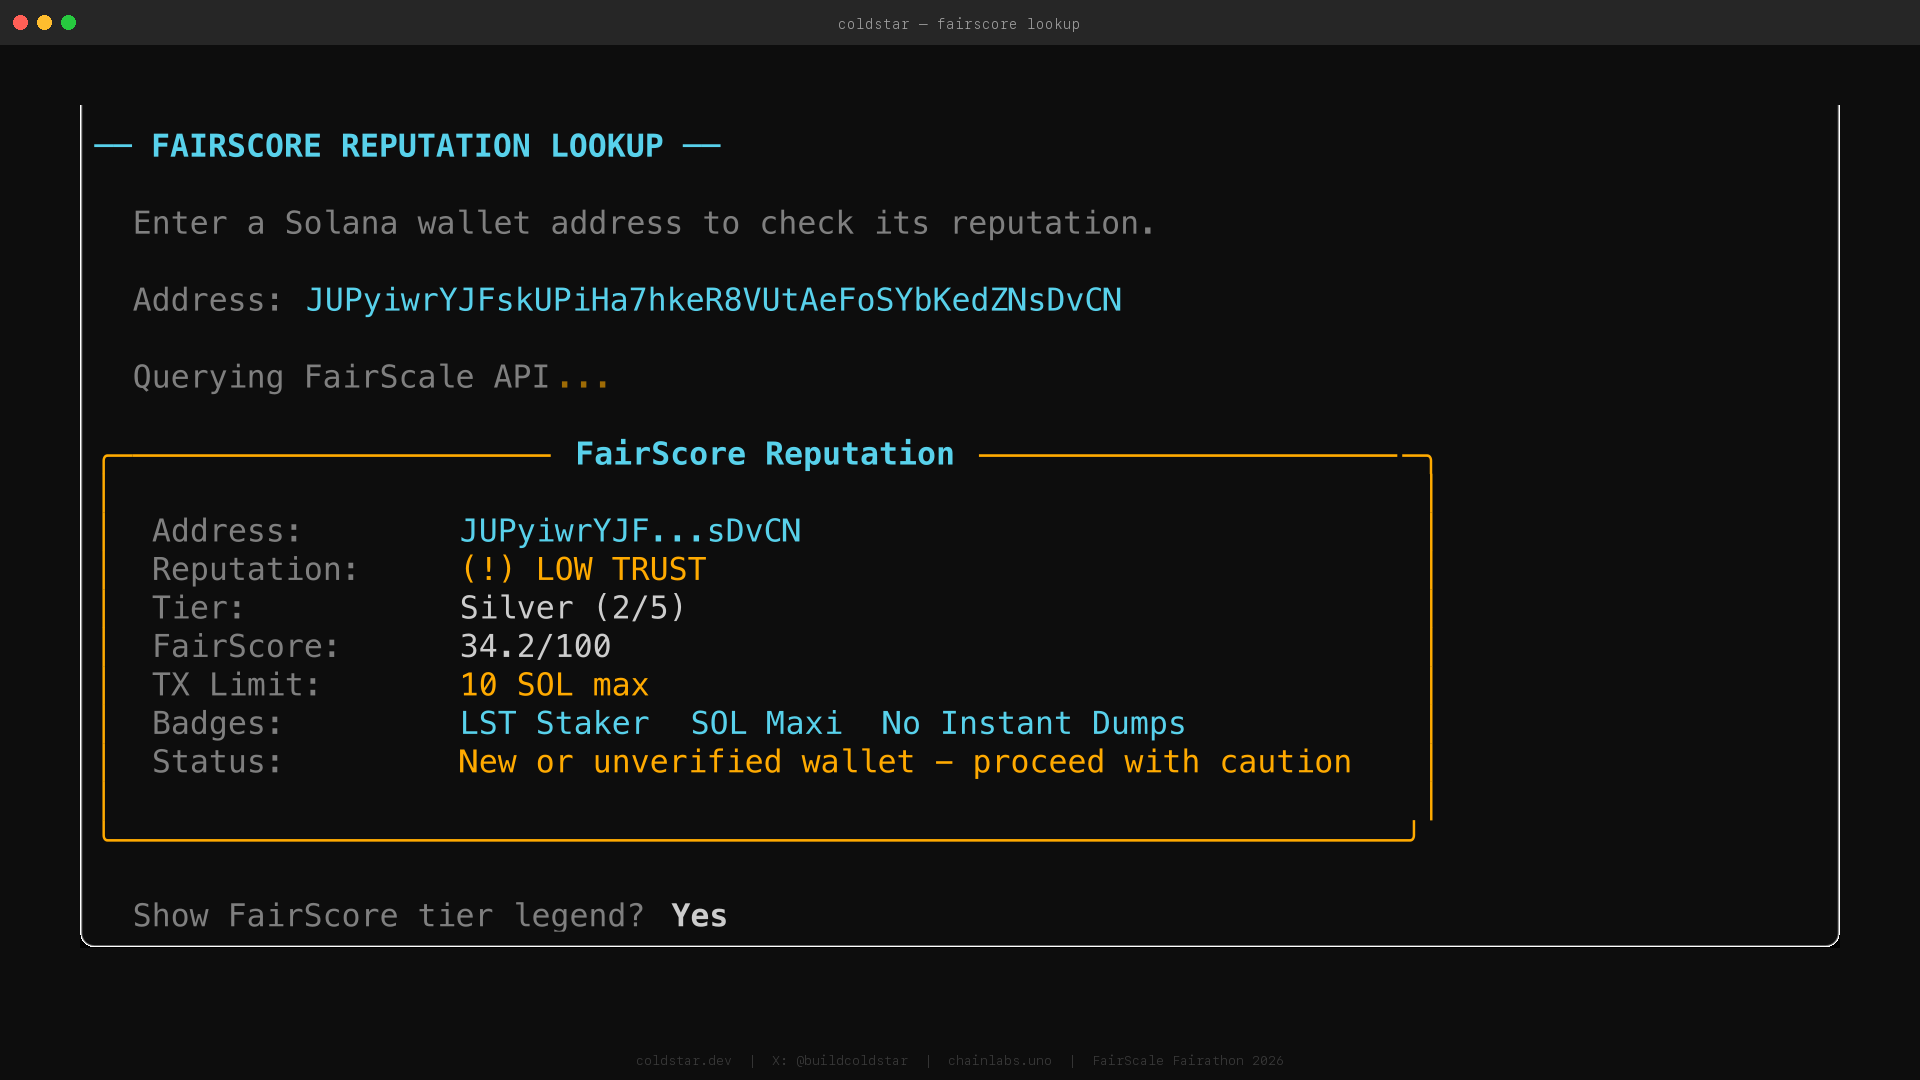
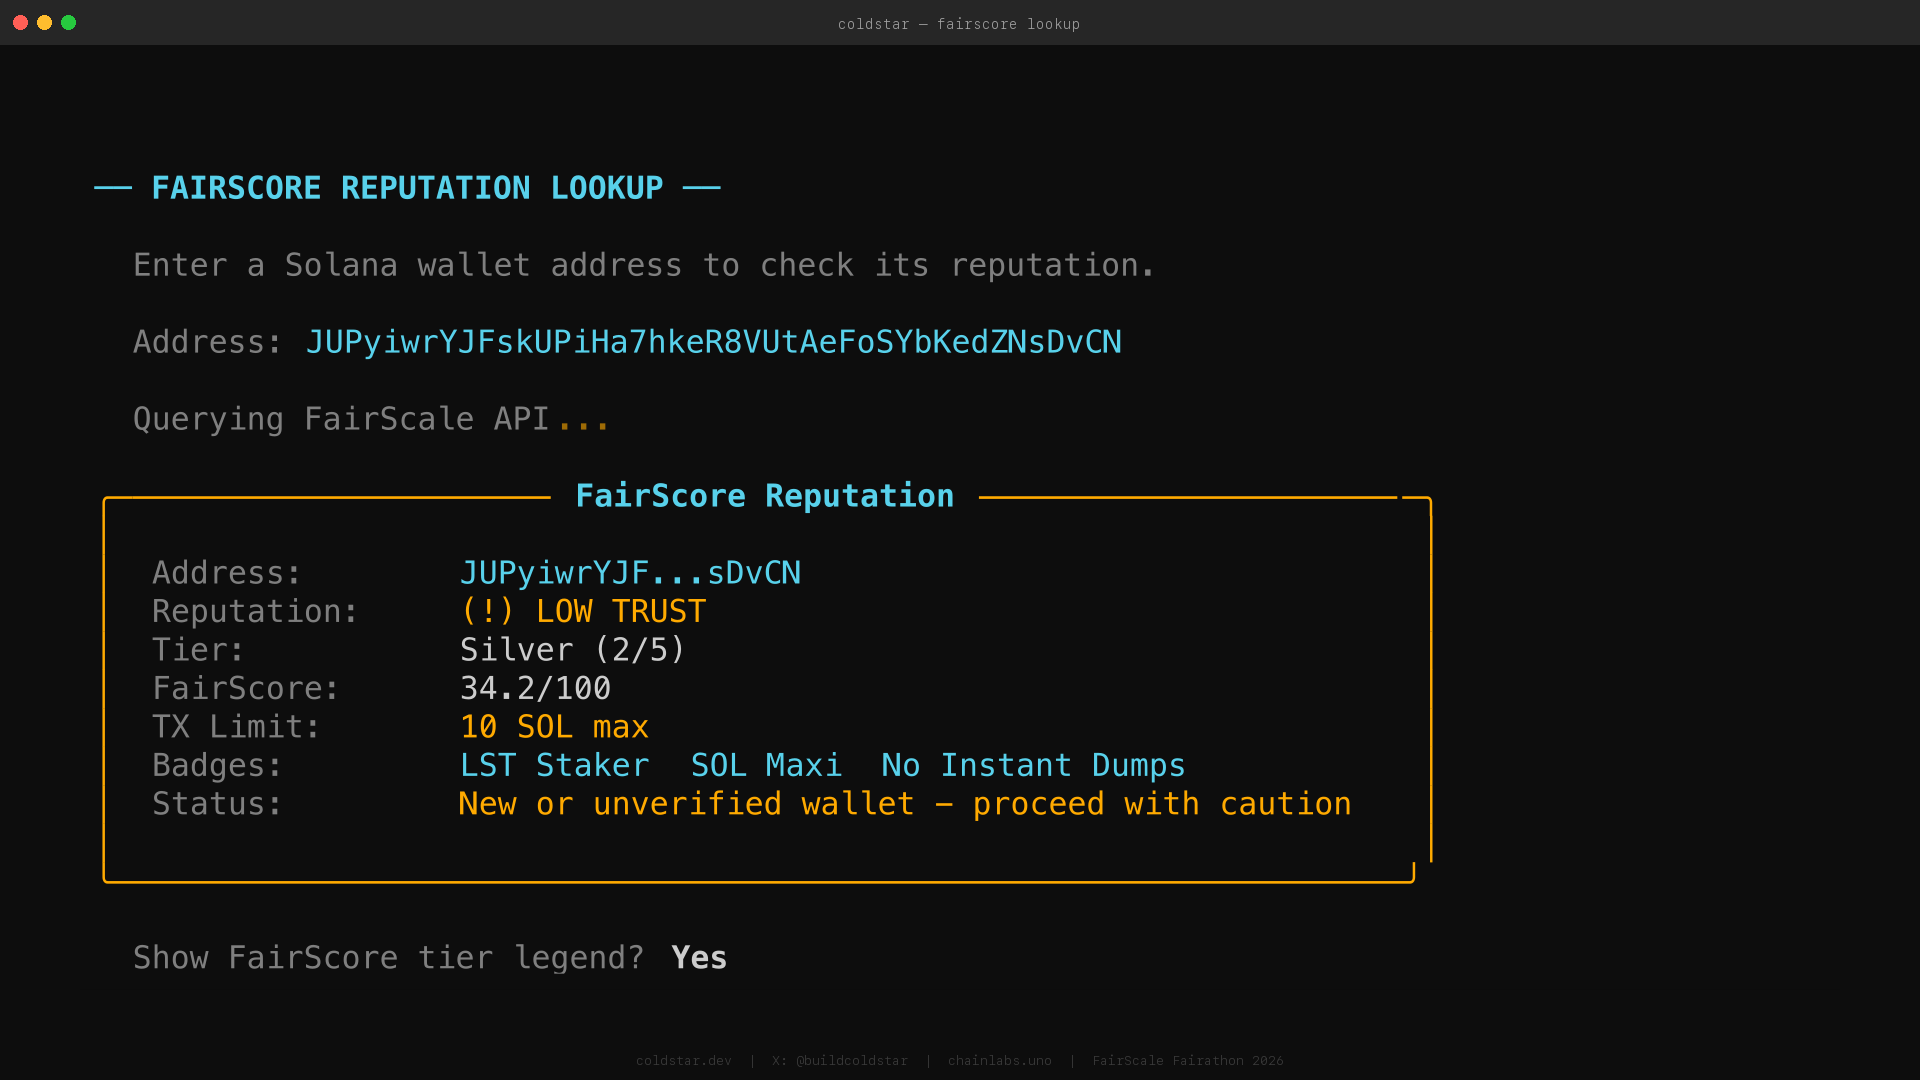
Fix double title bar by stripping Rich SVG chrome, remove Colosseum #62
- Strip Rich's built-in terminal chrome (circles, title text, rounded rect)
  from SVG before rasterizing — eliminates double title bar
- Remove crop hack that was insufficient
- Remove "Colosseum Project #62" from title card and CTA

diff --git a/video/build_video_v2.py b/video/build_video_v2.py
@@ -63,7 +63,8 @@ def scene(title, duration, voiceover, accent="#ff00ff"):
 # ─── Rich Rendering Helpers ──────────────────────────────────────────
 
 def rich_to_png(render_func, out_path, console_width=100, title="coldstar — main.py"):
-    """Render Rich content to PNG via SVG export."""
+    """Render Rich content to PNG via SVG export — no chrome (we add our own)."""
+    import re
     c = Console(
         record=True,
         width=console_width,
@@ -72,6 +73,30 @@ def rich_to_png(render_func, out_path, console_width=100, title="coldstar — ma
     )
     render_func(c)
     svg = c.export_svg(title=title, theme=TERMINAL_THEME)
+
+    # Strip Rich's built-in terminal chrome (title bar + traffic lights)
+    # so we don't get a double title bar when compositing our own macOS frame.
+    # 1) Remove <circle> elements (traffic light dots)
+    svg = re.sub(r'<circle[^/]*/>', '', svg)
+    # 2) Remove the chrome title <text> element
+    svg = re.sub(r'<text[^>]*class="[^"]*-title"[^>]*>.*?</text>', '', svg)
+    # 3) Remove the rounded outer rect (stroke border) — it's the first <rect> with rx="8"
+    svg = re.sub(r'<rect[^>]*rx="8"[^/]*/>', '', svg, count=1)
+    # 4) Remove the title-bar background rect (first small rect, ~23px tall)
+    svg = re.sub(r'<rect x="0" y="0" width="[^"]*" height="2[0-9]\.[0-9]"[^/]*/>', '', svg, count=1)
+    # 5) Shift content up by removing the terminal_y offset in the transform
+    svg = re.sub(
+        r'transform="translate\((\d+(?:\.\d+)?),\s*(\d+(?:\.\d+)?)\)"',
+        lambda m: f'transform="translate({m.group(1)}, 4)"',
+        svg,
+        count=1,
+    )
+    # 6) Add a plain background rect at the top
+    svg = svg.replace(
+        '<defs>',
+        f'<rect fill="rgb(13,13,13)" x="0" y="0" width="100%" height="100%"/>\n    <defs>',
+        1,
+    )
 
     # Write SVG
     svg_path = out_path.replace(".png", ".svg")
@@ -144,12 +169,8 @@ def composite_terminal_frame(content_png_path, output_path, window_title="coldst
     draw.text(((WIDTH - tw) // 2, (TITLEBAR_H - 14) // 2), window_title,
               fill=TITLEBAR_TEXT, font=title_font)
 
-    # Load content and crop Rich's built-in title bar to avoid double chrome
+    # Load content (Rich chrome already stripped in rich_to_png)
     content = Image.open(content_png_path)
-    # Rich SVG export adds a full terminal chrome bar (~8% of height) — crop it off
-    rich_titlebar_h = int(content.height * 0.09)
-    if content.height > 200:  # safety check
-        content = content.crop((0, rich_titlebar_h, content.width, content.height))
 
     # Scale content to fit within the frame
     max_w = WIDTH - PADDING * 2
@@ -205,7 +226,7 @@ def render_title(c):
     c.print("[dim]     X: @buildcoldstar  •  Insta: @devsyrem[/]")
     c.print()
     c.print()
-    c.print("[bold cyan]     FairScale Fairathon 2026  •  Colosseum Project #62[/]")
+    c.print("[bold cyan]     FairScale Fairathon 2026[/]")
     c.print()
 
 
@@ -776,7 +797,7 @@ def render_cta(c):
     c.print()
     c.print('  [bold white italic]"The future of cold storage is intelligent."[/]')
     c.print()
-    c.print("  [dim]FairScale Fairathon 2026  •  Colosseum Project #62[/]")
+    c.print("  [dim]FairScale Fairathon 2026[/]")
     c.print("  [dim]STIE Member  •  chainlabs.uno[/]")
     c.print()
 
